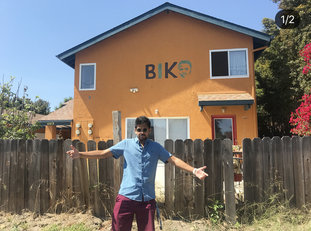
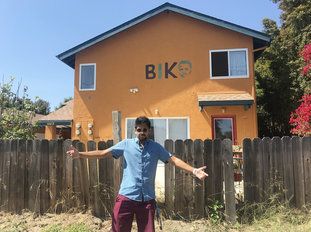
Added styling to images

diff --git a/images.html b/images.html
@@ -23,7 +23,7 @@
     </nav>
 
     <div class="row pt-3">
-      <div class="column">
+      <div class="column pl-4">
         <img class = "image" src="./images/sing.jpg" alt="bik">
       </div>
       <div class="column">
@@ -31,6 +31,17 @@
       </div>
       <div class="column">
         <img class = "image" src="./images/wood.jpg" alt="wood">
+      </div>
+      <div class="column">
+        <img class = "image" src="./images/harry.jpg" alt="harry">
+      </div>
+    </div>
+    <div class="row pt-3 pb-2">
+      <div class="column pl-4">
+        <img class = "image" src="./images/bhouse.jpg" alt="house">
+      </div>
+      <div class="columm">
+        <img class = "image" src="./images/holiday.jpg" alt="holiday">
       </div>
     </div>
 

diff --git a/style.css b/style.css
@@ -5,7 +5,6 @@
   margin-left: 2vw;
 }
 .image{
-  margin-left: 5vw;
-  style: 100%;
-  margin-right: 5vw;
+  margin-left: 1vw;
+  margin-right: 1vw;
 }
